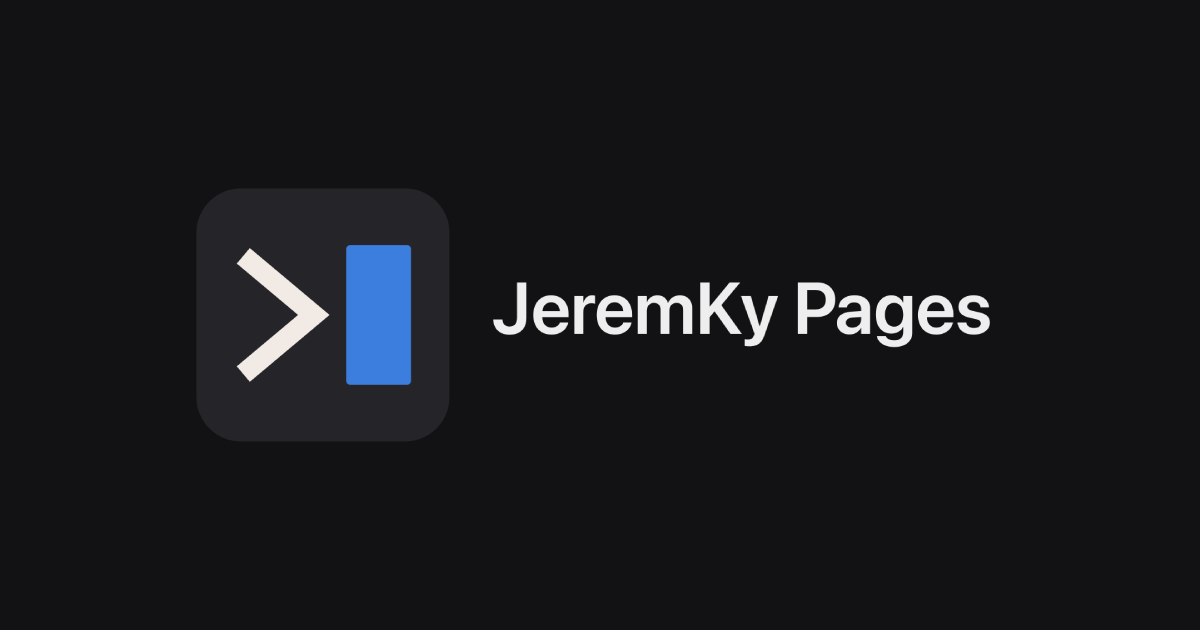
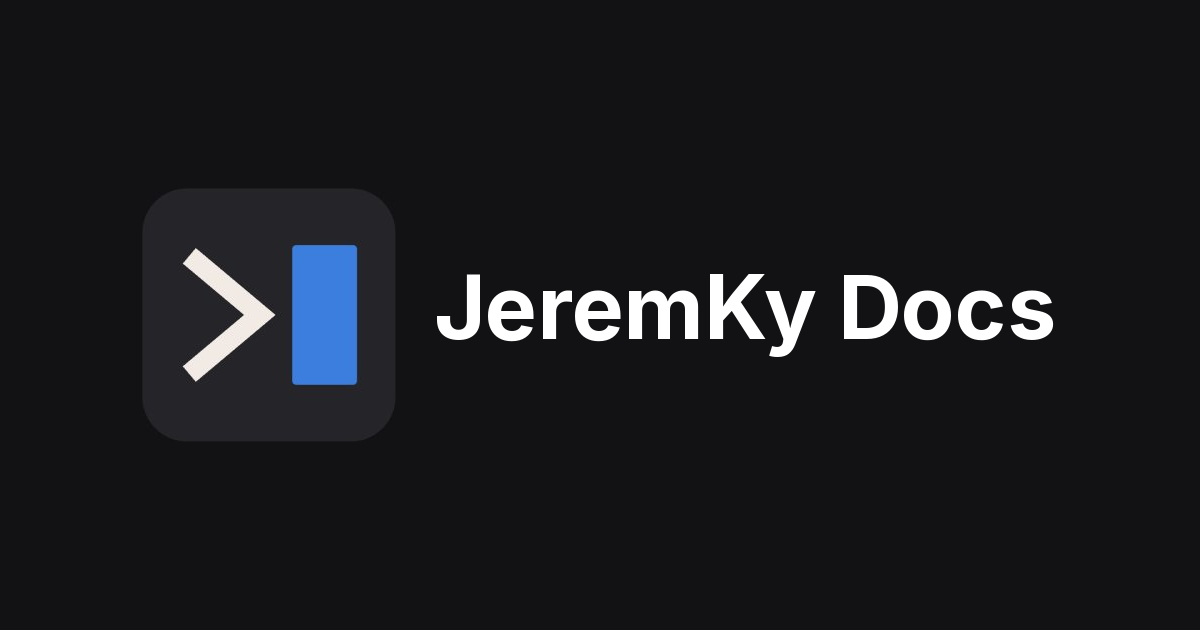
Update

Changed region(s): [[0.1542, 0.3619, 0.8942, 0.6333]]

diff --git a/README.md b/README.md
@@ -1,4 +1,4 @@
-# JeremKy Pages
+# JeremKy Docs
 
 Ce dépôt permet de générer et publier le site
 <https://jeremky.github.io> à l'aide du framework [Hugo](https://gohugo.io/) couplé au thème [Hextra](https://imfing.github.io/hextra).

diff --git a/content/_index.md b/content/_index.md
@@ -5,7 +5,7 @@ layout: "hextra-home"
 {{< hextra/hero-container >}}
   <div class="hx:mt-6 hx:mb-6">
   {{< hextra/hero-headline >}}
-  JeremKy Pages
+  JeremKy Docs
   {{< /hextra/hero-headline >}}
   </div>
 